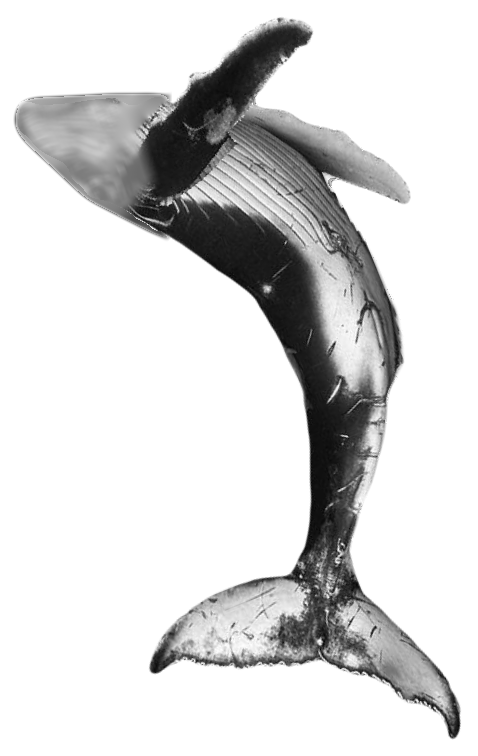
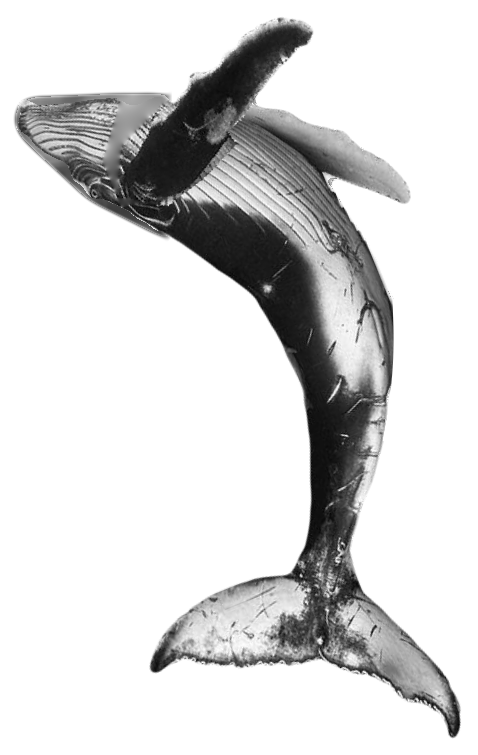
The whale: the head in the photo's own shading inside its rounded shape, the body's right edge held to one smooth line through the surface.
(cherry picked from commit 8fc0f4e7248a89d6bf256faaa07ad3c4eb05c850)

Changed region(s): [[0.0293, 0.1219, 0.3222, 0.3046], [0.8201, 0.396, 0.8494, 0.5179], [0.3808, 0.2437, 0.41, 0.2742]]

diff --git a/apps/web/src/components/copy/DotWhale.tsx b/apps/web/src/components/copy/DotWhale.tsx
@@ -4,13 +4,12 @@
  * the dots denser where the photo is lighter - with faint round stars around it.
  *
  * The photo (owner, 2026-10-26: a full-body humpback cut out on white) is cut
- * out, its outline smoothed a little and its head smoothed right out (owner,
- * 2026-10-26: "doesn't need to be fully realistic there"), its raised flipper
+ * out, its outline smoothed a little, its raised flipper
  * swung whole about its root to where the owner drew it (the gap it leaves filled
  * from the body and background around it), mirrored so it heads left and tilted
  * 22 degrees into a breach; then, as the owner drew them, the head rounded into
- * a smooth wedge, the far flipper's top edge smoothed, and the body's right side
- * made one gradual curve. And
+ * a smooth wedge (in the photo's own shading), the far flipper's top edge
+ * smoothed, and the body's right side held to one gradual curve. And
  * kept as a tone map
  * (whale-tone.png: grey = the photo's light, alpha = the whale), equalised over
  * the whale so its dark skin spreads over the whole range. The map is inlined in
@@ -32,8 +31,8 @@ import toneUrl from './whale-tone.png?inline';
 
 /** The tone map's size, and its row on the surface; the box adds a little room either side. */
 const TW = 478;
-const TH = 756;
-const WATERLINE = 348;
+const TH = 755;
+const WATERLINE = 347;
 const PAD = 44;
 const W = TW + PAD * 2;
 /** The band below the surface over which sharp turns to under water (CSS px). */
